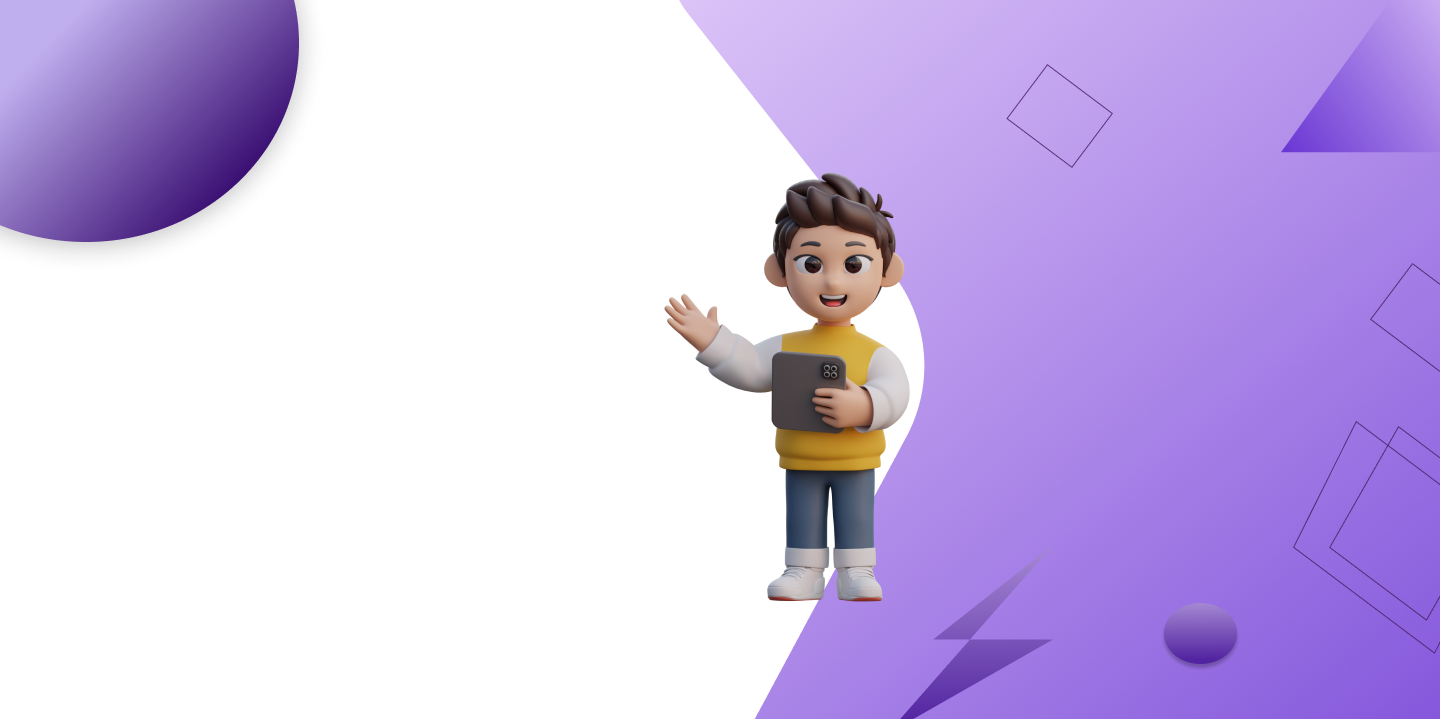
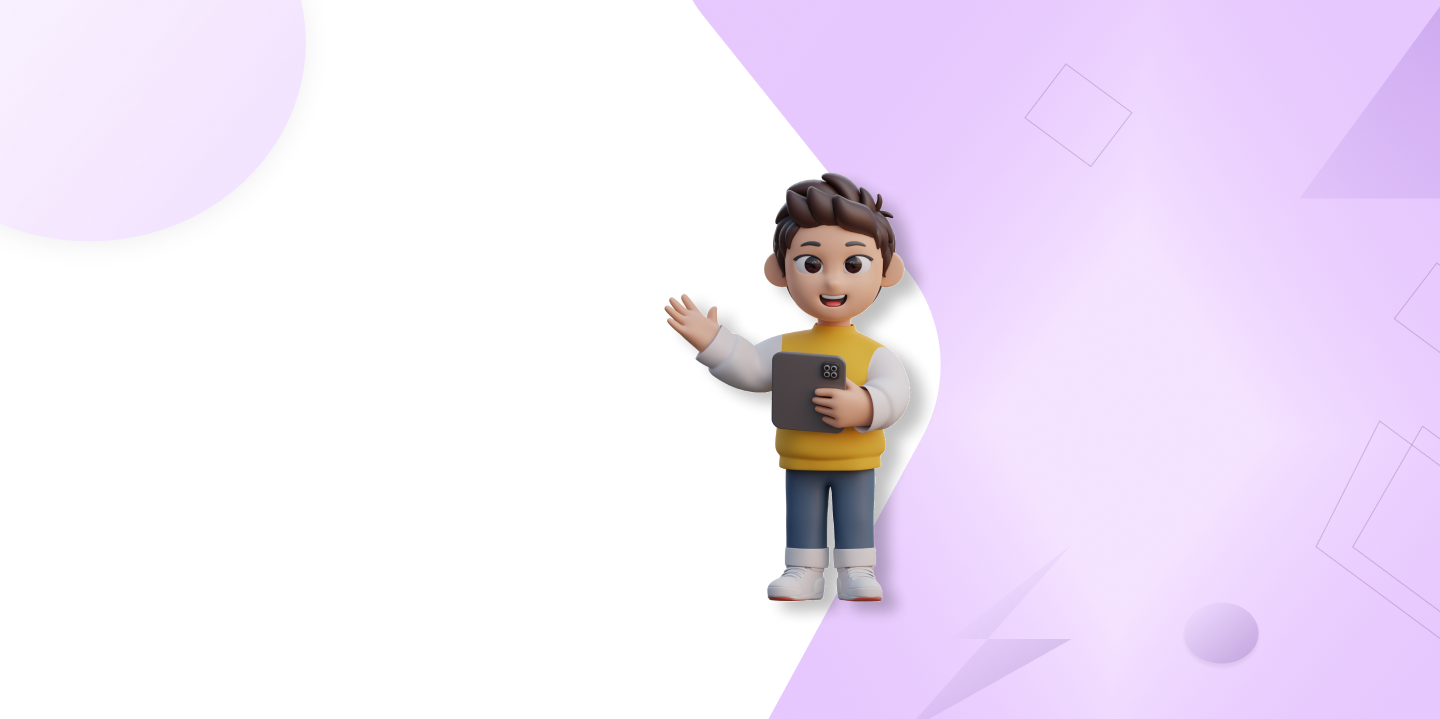
c

diff --git a/components/Login.tsx b/components/Login.tsx
@@ -30,15 +30,16 @@ import { useSelector } from "react-redux";
 import Navbar from "./Navbar";
 import "/app.css";
 const Login = () => {
-  const [login, { data, error, isSuccess}] = useLoginMutation()
-  const router = useRouter()
-  const {data: sessionData}  = useSession()
-  console.log(sessionData)
-  const {user} = useSelector((state:any) => state.auth)
-  console.log(user)
-  const [sociallogin, { isSuccess: socialSuccess, data:socialData}] = useSocialLoginMutation()
+  const [login, { data, error, isSuccess }] = useLoginMutation();
+  const router = useRouter();
+  const { data: sessionData } = useSession();
+  console.log(sessionData);
+  const { user } = useSelector((state: any) => state.auth);
+  console.log(user);
+  const [sociallogin, { isSuccess: socialSuccess, data: socialData }] =
+    useSocialLoginMutation();
 
-  console.log(socialData)
+  console.log(socialData);
 
   useEffect(() => {
     const handleSocialLogin = async () => {
@@ -48,22 +49,19 @@ const Login = () => {
             email: sessionData.user.email,
             name: sessionData.user.name,
             avatar: sessionData.user.image,
-          }).then(() => router.push("/"))
+          }).then(() => router.push("/"));
         }
-
       }
     };
 
     handleSocialLogin();
   }, [sessionData, user, sociallogin, router]);
 
-
   useEffect(() => {
     if (socialSuccess) {
       toast.success(`Welcome ${socialData.user.name}`);
     }
-  }, [socialSuccess, socialData])
-
+  }, [socialSuccess, socialData]);
 
   useEffect(() => {
     if (isSuccess) {
@@ -100,7 +98,6 @@ const Login = () => {
     <>
       <div
         style={{
-          backgroundImage: "url(/login.png)",
           backgroundSize: "cover",
           backgroundPosition: "center",
           backgroundAttachment: "fixed",
@@ -108,14 +105,16 @@ const Login = () => {
           height: "100%",
           width: "100%",
         }}
-        className="h-full py-5"
+        className={
+          "h-full py-5 bg-[url(/login.png)] dark:bg-[url(/darkLogin.png)] transition-all duration-1000 ease-out"
+        }
       >
         <div className="px-28 ">
           {" "}
           <Navbar />
         </div>
 
-        <div className="absolute flex gap-y-[21px] flex-col items-center top-[25%] left-[10%] w-[500px]">
+        <div className="absolute flex gap-y-[21px] flex-col items-center top-[25%] left-[13%] w-[420px]">
           <div className="flex flex-col items-center gap-y-[10px]">
             <h1 className="text-[#5B2C78] dark:text-[var(--white)] font-bold text-[57px] z-50 ">
               LOGIN
@@ -128,7 +127,7 @@ const Login = () => {
                   size={40}
                 />
                 <VscGithub
-                  className="border rounded-3xl px-1 py-1 border-gray-400 cursor-pointer"
+                  className="border rounded-3xl px-1 py-1 border-gray-400 cursor-pointer dark:text-gray-200"
                   size={40}
                   onClick={() => signIn("github")}
                 />
@@ -139,7 +138,7 @@ const Login = () => {
           <Form {...form}>
             <form
               onSubmit={form.handleSubmit(onSubmit)}
-              className="flex flex-col items-center gap-y-[20px] z-20"
+              className="flex w-full flex-col items-center gap-y-[20px] z-20"
             >
               <FormField
                 control={form.control}
@@ -186,7 +185,7 @@ const Login = () => {
               />
               <Button
                 type="submit"
-                className=" text-white hover:scale-105 px-10 shadow-md shadow-[var(--darker)] hover:shadow-lg hover:shadow-[var(--darker)] rounded-[40px] text-[18px] py-[10px] bg-gradient-to-br from-[#5B2C78] to-[#9747FF]"
+                className=" text-white hover:scale-105 px-10 shadow-md shadow-[var(--lighter)] hover:shadow-lg hover:shadow-[var(--darker)] rounded-[40px] text-[18px] py-[10px] bg-gradient-to-br from-[var(--darker)] to-[var(--purple)] dark:shadow-[var(--dark-bg)]"
               >
                 Login
               </Button>
@@ -194,13 +193,15 @@ const Login = () => {
           </Form>
         </div>
 
-        <div className="flex flex-col items-center justify-center gap-y-[21px] absolute top-[32%] right-[5%] w-[500px] z-20 ">
-          <h1 className="text-[57px] font-bold text-[#5B2C78]">New User?</h1>
-          <p className="text-[16px] text-center w-[285px] text-[#5B2C78]">
+        <div className="flex flex-col items-center justify-center gap-y-[21px] absolute top-[32%] right-[5%] w-[500px] z-20">
+          <h1 className="text-[57px] font-bold text-[#5B2C78] dark:text-white">
+            New User?
+          </h1>
+          <p className="text-[16px] text-center w-[285px] text-[#5B2C78] dark:text-white">
             Kindly create an account here and begin your journey.
           </p>
           <Link href={"/signup"}>
-            <button className="px-11 rounded-[40px] font-medium text-[18px] py-[10px] border-2 border-[#5B2C78] text-[#5B2C78] transition duration-1000 ease-in-out hover:bg-gradient-to-br hover:from-[var(--darkpurple)] hover:to-[var(--purple)] hover:border-none hover:scale-105 hover:shadow-lg hover:shadow-[var(--darker)] hover:text-white">
+            <button className="px-11 rounded-[40px] font-medium text-[18px] py-[10px] border-2 border-[#5B2C78] text-[#5B2C78] transition duration-1000 ease-in-out hover:bg-gradient-to-br hover:from-[var(--darkpurple)] hover:to-[var(--purple)] hover:border-none hover:scale-105 hover:shadow-md dark:hover:shadow-[var(--darker)] hover:shadow-[var(--lighter)] hover:text-white dark:text-white dark:border-white dark:hover:bg-gradient-to-br dark:hover:from-[var(--darker] dark:hover:to-[var(--darkline)]">
               Register
             </button>
           </Link>

diff --git a/components/Signup.tsx b/components/Signup.tsx
@@ -64,7 +64,6 @@ const Signup = () => {
     <div>
       <div
         style={{
-          backgroundImage: "url(/registerbg.png)",
           backgroundSize: "cover",
           backgroundPosition: "center",
           backgroundAttachment: "fixed",
@@ -72,7 +71,9 @@ const Signup = () => {
           height: "100%",
           width: "100%",
         }}
-        className={`relative ${openVerification ? "filter blur-sm" : ""} py-5`}
+        className={
+          "h-full py-5 bg-[url(/signup.png)] dark:bg-[url(/darkSignup.png)] transition-all duration-1000 ease-out"
+        }
       >
         <div className="px-28 ">
           {" "}
@@ -80,19 +81,19 @@ const Signup = () => {
         </div>
 
         <div className="flex flex-col items-center justify-center gap-y-[21px] absolute top-[32%] left-[8%] ">
-          <h1 className="text-[57px] font-bold text-[#5B2C78]">
+          <h1 className="text-[57px] font-bold text-[#5B2C78]  dark:text-white">
             Welcome Back!
           </h1>
-          <p className="text-[16px] text-center w-[285px] text-[#5B2C78]">
+          <p className="text-[16px] text-center w-[285px] text-[#5B2C78] dark:text-white">
             Already have an account? please login with your personal info.
           </p>
           <Link href={"/login"}>
-            <button className="px-11 rounded-[40px] font-medium text-[18px] py-[10px] border-2 border-[#5B2C78] text-[#5B2C78] transition duration-1000 ease-in-out hover:bg-gradient-to-br hover:from-[var(--darkpurple)] hover:to-[var(--purple)] hover:border-none hover:scale-105 hover:shadow-lg hover:shadow-[var(--darker)] hover:text-white">
+            <button className="px-11 rounded-[40px] font-medium text-[18px] py-[10px] border-2 border-[#5B2C78] text-[#5B2C78] transition duration-1000 ease-in-out hover:bg-gradient-to-br hover:from-[var(--darkpurple)] hover:to-[var(--purple)] hover:border-none hover:scale-105 hover:shadow-md dark:hover:shadow-[var(--darker)] hover:shadow-[var(--lighter)] hover:text-white dark:text-white dark:border-white dark:hover:bg-gradient-to-br dark:hover:from-[var(--darker] dark:hover:to-[var(--darkline)]">
               Login
             </button>
           </Link>
         </div>
-        <div className="absolute flex gap-y-[21px] flex-col items-center top-[25%] right-[10%] w-[500px]">
+        <div className="absolute flex gap-y-[21px] flex-col items-center top-[25%] right-[10%] w-[420px]">
           <div className="flex flex-col items-center gap-y-[10px]">
             <h1 className="text-[#5B2C78] dark:text-[var(--white)] font-bold text-[57px] ">
               Create Account
@@ -105,7 +106,7 @@ const Signup = () => {
                   size={40}
                 />
                 <VscGithub
-                  className="border rounded-3xl px-1 py-1 border-gray-400 cursor-pointer"
+                  className="border rounded-3xl px-1 py-1 border-gray-400 cursor-pointer dark:text-gray-200"
                   size={40}
                   onClick={() => signIn("github")}
                 />
@@ -116,7 +117,7 @@ const Signup = () => {
           <Form {...form}>
             <form
               onSubmit={form.handleSubmit(onSubmit)}
-              className="flex flex-col items-center gap-y-[20px]"
+              className="flex w-full flex-col items-center gap-y-[20px]"
             >
               <FormField
                 control={form.control}
@@ -184,7 +185,7 @@ const Signup = () => {
               />
               <Button
                 type="submit"
-                className=" text-white hover:scale-105 px-10 shadow-md shadow-[var(--darker)] hover:shadow-lg hover:shadow-[var(--darker)] rounded-[40px] text-[18px] py-[10px] bg-gradient-to-br from-[#5B2C78] to-[#9747FF]"
+                className=" text-white hover:scale-105 px-10 shadow-md shadow-[var(--lighter)] hover:shadow-lg hover:shadow-[var(--darker)] rounded-[40px] text-[18px] py-[10px] bg-gradient-to-br from-[var(--darker)] to-[var(--purple)] dark:shadow-[var(--dark-bg)]"
               >
                 Signup
               </Button>

diff --git a/components/Navbar.tsx b/components/Navbar.tsx
@@ -29,9 +29,8 @@ const Navbar = () => {
   const [isMobile, setIsMobile] = useState(false);
   const params = usePathname();
 
-  const {user} = useSelector((state: any) => state.auth)
-  console.log(user)
-
+  const { user } = useSelector((state: any) => state.auth);
+  console.log(user);
 
   // if (typeof window !== 'undefined') {
   //   window.addEventListener('scroll', () => {
@@ -54,19 +53,15 @@ const Navbar = () => {
       >
         <div className=" py-2 h-full">
           <div className="flex justify-between items-center h-full">
-            <div className="flex items-center">
+            <div className="flex gap-2 items-center">
               <Link
                 href="#"
                 className="text-white mr-4 flex justify-items-center"
               >
-                <Image
-                  src="/logo1.png"
-                  alt="logo"
-                  width={600}
-                  height={500}
-                  className="h-6 w-8"
-                />
-                <h1 className="text-[var(--darker)] dark:text-[var(--white)]font-poppins">
+                <div className="w-[24px] h-[24px] bg-[url(/logo1.png)] bg-contain bg-center bg-no-repeat dark:bg-[url(/logo2.png)]">
+                  {" "}
+                </div>
+                <h1 className="text-[var(--darker)] dark:text-white font-poppins">
                   Elearning
                 </h1>
               </Link>
@@ -109,29 +104,28 @@ const Navbar = () => {
             <div className="flex items-center gap-6">
               <ThemeSwitcher />
 
-              <IoNotificationsOutline className="text-[#4A1F64] text-2xl" />
+              <IoNotificationsOutline className="text-[#4A1F64] text-2xl dark:text-white dark:hover:text-[var(--darkline)]" />
 
-              {
-                user  && (
-                  <Link href={'/profile'}>
-                    <Image src={user?.avatar?.url || '/user.png'} alt="user" width={100} height={100} className="rounded-full h-8 w-8" />
-                  </Link>
-                )
-              }
+              {user && (
+                <Link href={"/profile"}>
+                  <Image
+                    src={user?.avatar?.url || "/user.png"}
+                    alt="user"
+                    width={100}
+                    height={100}
+                    className="rounded-full h-8 w-8"
+                  />
+                </Link>
+              )}
 
-
-              {
-                params !== "/login" && params !== "/signup" && !user && (
-                  (
-                    <Link href="/signup"
-                      className="text-[#ebe8ec] bg-gradient-to-r from-[#4A1F64] to-[#CAADF0] py-2 px-6 rounded-full font-normal"
-                    >
-                      signup
-                    </Link>
-                  )
-                )
-              }
-
+              {params !== "/login" && params !== "/signup" && !user && (
+                <Link
+                  href="/signup"
+                  className="text-[#ebe8ec] bg-gradient-to-r from-[var(--darkline)] to-[var(--darker)] py-2 px-6 rounded-full font-normal"
+                >
+                  signup
+                </Link>
+              )}
             </div>
           </div>
         </div>

diff --git a/components/Shadow.tsx b/components/Shadow.tsx
@@ -5,20 +5,20 @@ const Shadow = () => {
     <div className="w-full">
       <img
         src="/bg shadow.png"
-        className="absolute w-[800px] right-[-5%] top-[-5%] blur-2xl"
+        className="absolute w-[800px] right-[0%] top-[-5%] blur-2xl"
       />
 
       <img
         src="/bg shadow.png"
-        className="absolute w-full right-[10%] top-[30%] h-[450px] blur-2xl"
+        className="absolute w-[600px] right-[30%] top-[30%] h-[450px] blur-2xl"
       />
       <img
         src="/bg shadow.png"
-        className="absolute w-full right-[10%] top-[42%] h-[450px] blur-2xl"
+        className="absolute w-[600px] right-[30%] top-[42%] h-[450px] blur-2xl"
       />
       <img
         src="/bg shadow.png"
-        className="absolute w-full left-[-10%] top-[62%] h-[350px] blur-2xl"
+        className="absolute w-[800px] left-[15%] top-[62%] h-[350px] blur-2xl"
       />
 
       <img
@@ -27,7 +27,7 @@ const Shadow = () => {
       />
       <img
         src="/bg shadow.png"
-        className="absolute w-full right-[-90%] top-[80%] h-[450px] blur-2xl"
+        className="absolute w-[100px] right-[0%] top-[78%] h-[450px] blur-2xl"
       />
     </div>
   );

diff --git a/components/Header.tsx b/components/Header.tsx
@@ -25,7 +25,7 @@ const Header = () => {
               <div className="my-8">
                 <Link
                   href={"/courses"}
-                  className="text-[#ebe8ec] bg-gradient-to-tl from-[var(--purple)] to-[var(--darkpurple)] py-2 px-6 rounded-full font-normal mt-8 border border-purple-800 shadow-lg shadow-purple-200 hover:scale-105  hover:shadow-purple-300 dark:hover:shadow-xl dark:shadow-[var(--darkbg)] "
+                  className="text-[#ebe8ec] bg-gradient-to-tl from-[var(--purple)] to-[var(--darkpurple)] py-2 px-6 rounded-full font-normal mt-8 border border-purple-950 shadow-lg shadow-purple-200 hover:scale-105  hover:shadow-purple-300 dark:hover:shadow-xl dark:shadow-[var(--darkbg)] "
                 >
                   Start Learning
                 </Link>

diff --git a/components/FeebackCards.tsx b/components/FeebackCards.tsx
@@ -3,7 +3,7 @@ import React from "react";
 
 const FeedbackCards = () => {
   return (
-    <div className="relative dark:bg-[var(--course-box-dark-mode-clr)] bg-[#FFFF]  shadow-md shadow-[var(--white)] dark:shadow-[var(--darkbg)] h-64 w-[30%] px-10 pt-16 rounded-3xl">
+    <div className="relative dark:bg-[var(--course-box-dark-mode-clr)] bg-[#FFFF]  shadow-md shadow-slate-400 dark:shadow-[var(--darkbg)] h-64 w-[30%] px-10 pt-16 rounded-3xl">
       <div className="absolute top-[-60px] left-[-15px] flex justify-between items-center h-32 w-full  ">
         <div className="bg-[var(--darker)] shadow-md shadow-[var(--white)] dark:shadow-[var(--darker)] font-semibold text-[#FBF3FF] h-16 px-6 pb-2 pt-4 rounded-[30px] dark:bg-[var(--st-name-tag-clr)]">
           Student Name

diff --git a/components/CourseCard.tsx b/components/CourseCard.tsx
@@ -15,7 +15,7 @@ import { TfiMenuAlt } from "react-icons/tfi";
 const CourseCard = () => {
   return (
     <Link href={`/`}>
-      <Card className=" px-4 pt-4 pb-2 shadow-md shadow-purple-200 dark:shadow-[var(--darkbg)] cursor-pointer scale-100 hover:scale-105 opacity-100 h-[24rem] rounded-xl border-none relativetransition ease-out duration-500 hover:shadow-lg ">
+      <Card className=" px-4 pt-4 pb-2 shadow-md shadow-purple-200 dark:shadow-[var(--darkbg)] cursor-pointer scale-100 hover:scale-105 opacity-100 h-[24rem] rounded-xl border-slate-300 dark:border-none relativetransition ease-out duration-500 hover:shadow-lg ">
         <div className="relative w-full h-[55%] rounded border border-slate-500">
           <Image
             src={"/computer.png"}

diff --git a/components/FAQ.tsx b/components/FAQ.tsx
@@ -78,7 +78,7 @@ const FAQ = () => {
           </div>
           <button
             type="submit"
-            className=" text-white w-fit px-[20px] rounded-[40px] shadow-md shadow-[var(--darkpurple)] text-[18px] py-2 bg-gradient-to-br from-[var(--purple)] to-[var(--darkpurple)] hover:scale-105 hover:shadow-lg hover:shadow-[var(--darkpurple)]"
+            className=" text-white w-fit px-[20px] rounded-[40px] shadow-md shadow-purple-300 dark:shadow-[var(--darkpurple)] text-[18px] py-2 bg-gradient-to-br from-[var(--purple)] to-[var(--darkpurple)] hover:scale-105 hover:shadow-lg hover:shadow-[var(--darkpurple)]"
           >
             Send
           </button>

diff --git a/app/layout.tsx b/app/layout.tsx
@@ -33,7 +33,9 @@ export default function RootLayout({
 }>) {
   return (
     <html lang="en">
-      <body className={`${poppins.variable} ${josefin.variable} bg-[#F7F1FF] bg-no-repeat dark:bg-slate-950 duration-300`}>
+      <body
+        className={`${poppins.variable} ${josefin.variable} bg-[#F7F1FF] bg-no-repeat dark:bg-slate-950 transition-all duration-1000 ease-out`}
+      >
         <Providers>
           <AuthProvider>
             <ThemeProvider attribute="class" defaultTheme="system" enableSystem>

diff --git a/app.css b/app.css
@@ -1,11 +1,11 @@
 :root {
-  --purple: #5d30be;
+  --purple: #c292dd;
   --course-box-dark-mode-clr: #31215377;
   --course-box-light-mode-clr: #f5efff7c;
   --st-name-tag-clr: #764b97;
-  --darkpurple: #21133f;
+  --darkpurple: #6a4781;
   --darker: #4a1f64;
-  --darkline: #a377ff;
+  --darkline: #8a4ec6;
   --lightest: #ece0ff;
   --lighter: #c9b1f0;
   --black: #1b191b;
